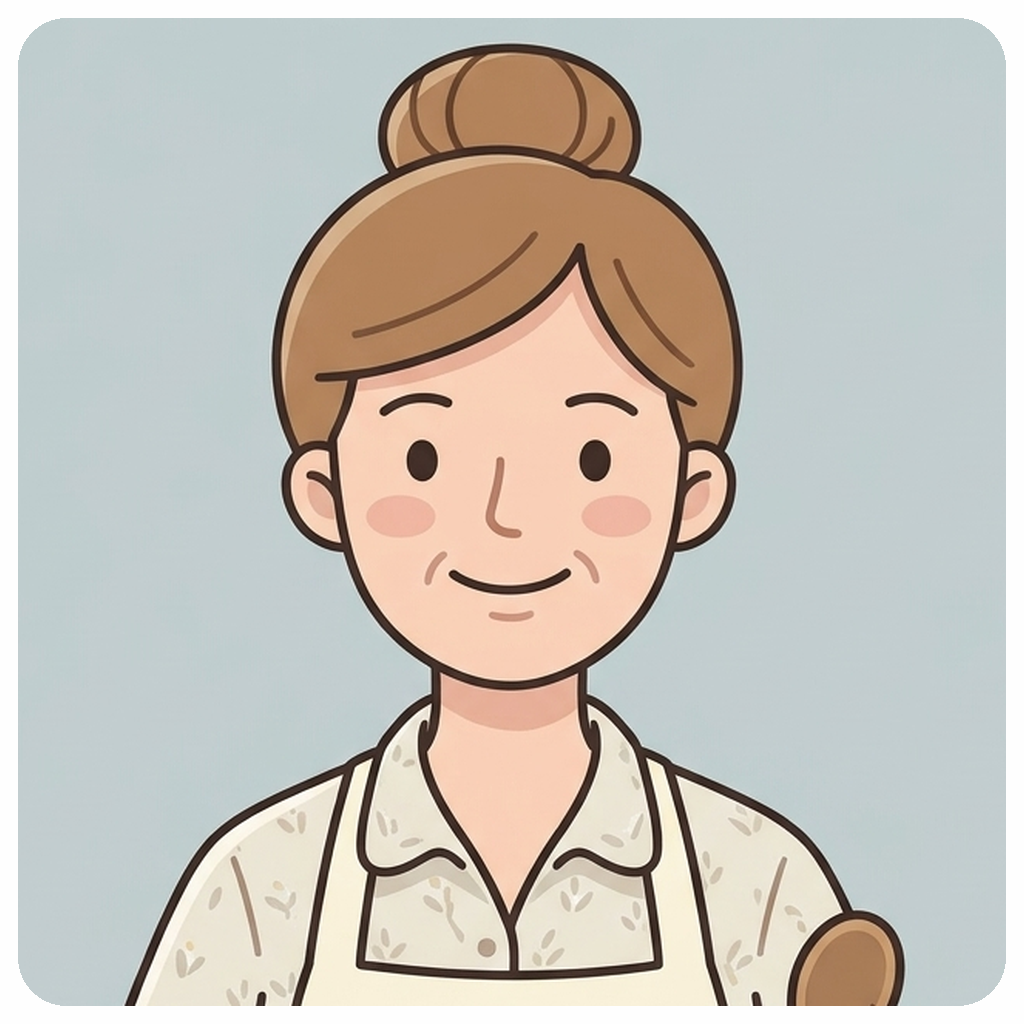
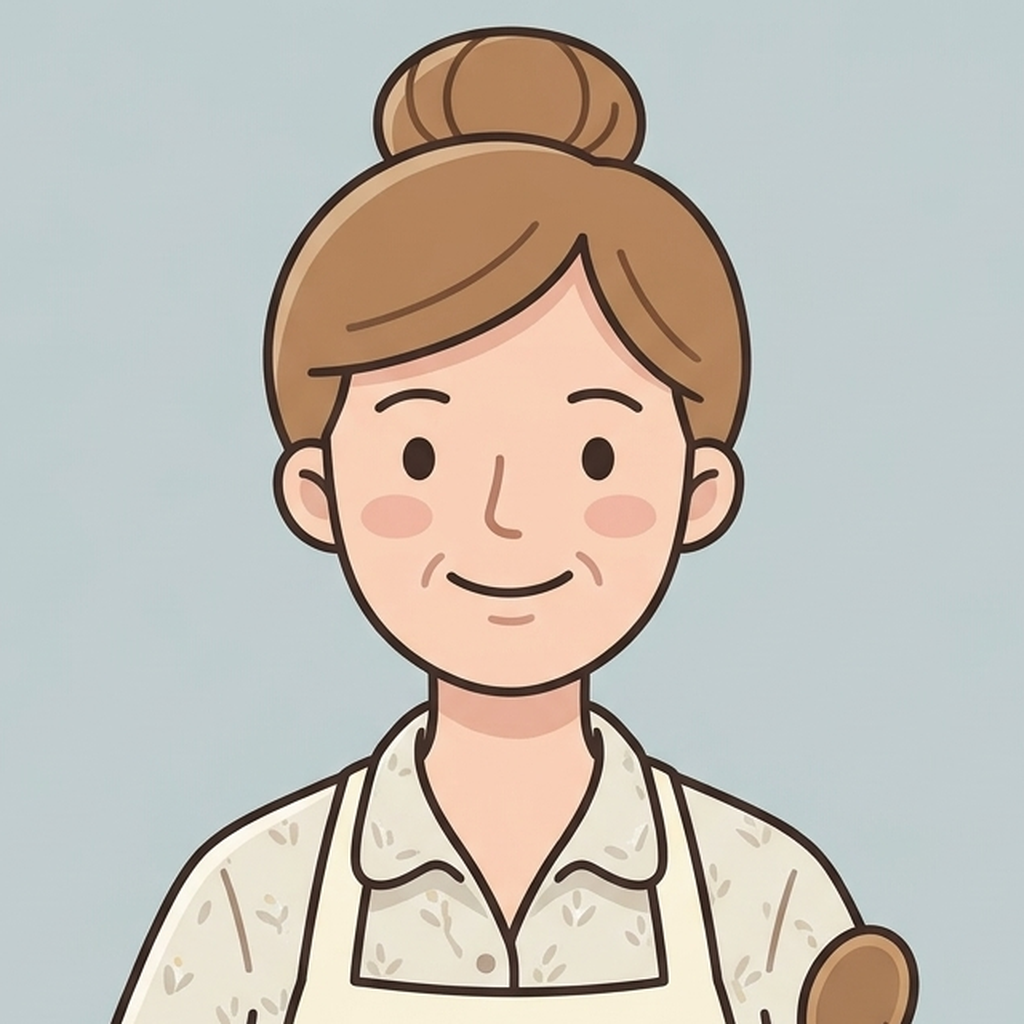
feat: 모바일 관리자 회원 목록 1줄 표시(아이디 누르면 매핑·삭제 팝업), 기념일 창 글씨 축소, 신규 아바타 흰 여백 제거

diff --git a/client/src/components/AdminView.css b/client/src/components/AdminView.css
@@ -272,6 +272,10 @@
 
 .col-actions { display: flex; gap: 6px; align-items: center; }
 
+/* 모바일 전용 아이디(이름) 버튼, 매핑·삭제 팝업 */
+.col-who { display: none; }
+.member-action-popup button { flex: 1; justify-content: center; padding: 11px; font-size: var(--fs-14); }
+
 .col-login { font-size: 11px; color: var(--text-4); }
 
 /* 알림 수신 상태 배지 */
@@ -822,38 +826,30 @@
   .member-search { max-width: 100%; }
   .btn-copy-emails { width: 100%; }
 
-  /* 회원 테이블 → 카드 레이아웃 (1줄: 이름 / 2줄: 아이디 / 3줄: 접속·관리), 이름은 줄바꿈 허용 */
+  /* 회원 테이블 → 1줄: 아이디(이름) · 최종접속 · 접속. 매핑·삭제는 아이디를 눌러 팝업에서 */
   .member-table-head { display: none; }
   .admin-member-row {
     display: grid;
-    grid-template-columns: minmax(0, 1fr) auto;
-    grid-template-areas:
-      "map   map"
-      "id    id"
-      "login actions";
+    grid-template-columns: minmax(0, 1fr) auto auto;
     align-items: center;
     column-gap: 8px;
-    row-gap: 3px;
     padding: 8px 10px;
     margin-bottom: 4px;
   }
 
-  .col-idx   { display: none; }
-  .col-map   { grid-area: map; min-width: 0; font-size: 14px; white-space: normal; overflow-wrap: anywhere; }
-  .col-id    { grid-area: id; min-width: 0; font-size: 11px; font-weight: 500; color: var(--text-3); white-space: nowrap; overflow: hidden; text-overflow: ellipsis; }
-  .col-login { grid-area: login; font-size: 11px; color: var(--text-4); white-space: nowrap; }
-  .col-push  { display: none; }
-  .col-actions {
-    grid-area: actions;
-    justify-self: end;
-    display: flex;
-    gap: 4px;
-    align-items: center;
+  .col-idx, .col-id, .col-map, .col-push { display: none; }
+  .col-who {
+    display: block; min-width: 0; text-align: left;
+    background: none; border: none; padding: 0; cursor: pointer; font-family: inherit;
+    font-size: 13px; font-weight: 600; color: var(--text);
+    white-space: nowrap; overflow: hidden; text-overflow: ellipsis;
   }
+  .col-who-name { color: var(--pri); }
+  .col-login { font-size: 11px; color: var(--text-4); white-space: nowrap; }
+  .col-actions { display: flex; align-items: center; }
+  .col-actions .btn-map-sm, .col-actions .btn-del-member { display: none; }
   .btn-login-as   { padding: 5px 7px; font-size: 11px; }
   .btn-log-icon   { padding: 5px 6px; font-size: 12px; }
-  .btn-map-sm     { padding: 5px 7px; font-size: 11px; }
-  .btn-del-member { padding: 5px 7px; font-size: 11px; }
 
   /* 승인 대기 행: 세로 배치 */
   .admin-req-row { flex-direction: column; align-items: flex-start; gap: 8px; }

diff --git a/client/src/components/admin/MemberSection.tsx b/client/src/components/admin/MemberSection.tsx
@@ -39,6 +39,7 @@ export function MemberSection({ members, families, loading, flash, reload }: Pro
   const [mappingMember, setMappingMember] = useState<Member | null>(null);
   const [confirmDelete, setConfirmDelete] = useState<Member | null>(null);
   const [logMember, setLogMember] = useState<Member | null>(null);
+  const [actionMember, setActionMember] = useState<Member | null>(null);
 
   const googleEmails = members.filter(m => m.google_email).map(m => m.google_email!);
 
@@ -117,6 +118,10 @@ export function MemberSection({ members, families, loading, flash, reload }: Pro
             {pageItems.map((m, idx) => (
               <div key={m.id} className="admin-member-row">
                 <span className="col-idx">{current * PAGE_SIZE + idx + 1}</span>
+                {/* 모바일 전용: 아이디(이름) — 누르면 매핑·삭제 팝업 */}
+                <button className="col-who" onClick={() => setActionMember(m)}>
+                  {m.username}{m.person_name && <span className="col-who-name">({m.person_name})</span>}
+                </button>
                 <span className="col-id member-id">{m.username}</span>
                 <span className="col-map">
                   {m.person_name
@@ -146,6 +151,18 @@ export function MemberSection({ members, families, loading, flash, reload }: Pro
 
           <AdminPager current={current} total={totalPages} onChange={setPage} />
         </>
+      )}
+
+      {actionMember && (
+        <AdminModal onClose={() => setActionMember(null)}>
+          <h3>{actionMember.username}{actionMember.person_name && ` (${actionMember.person_name})`}</h3>
+          <div className="confirm-actions member-action-popup">
+            <button className="btn-map-sm" onClick={() => { setMappingMember(actionMember); setActionMember(null); }}>
+              {actionMember.person_name ? '재매핑' : '매핑'}
+            </button>
+            <button className="btn-del-member" onClick={() => { setConfirmDelete(actionMember); setActionMember(null); }}>삭제</button>
+          </div>
+        </AdminModal>
       )}
 
       {confirmDelete && (

diff --git a/client/src/components/AnniversaryView.css b/client/src/components/AnniversaryView.css
@@ -19,6 +19,9 @@
   flex-direction: column;
   animation: slideIn 0.2s ease;
   box-shadow: -4px 0 24px rgba(42,38,32,0.15);
+  /* 기념일 창은 전역 토큰보다 1px 작게 */
+  --fs-11: 14px; --fs-12: 15px; --fs-13: 16px; --fs-14: 17px;
+  --fs-17: 19px; --fs-18: 20px;
 }
 
 @keyframes slideIn { from { transform: translateX(100%) } to { transform: translateX(0) } }
